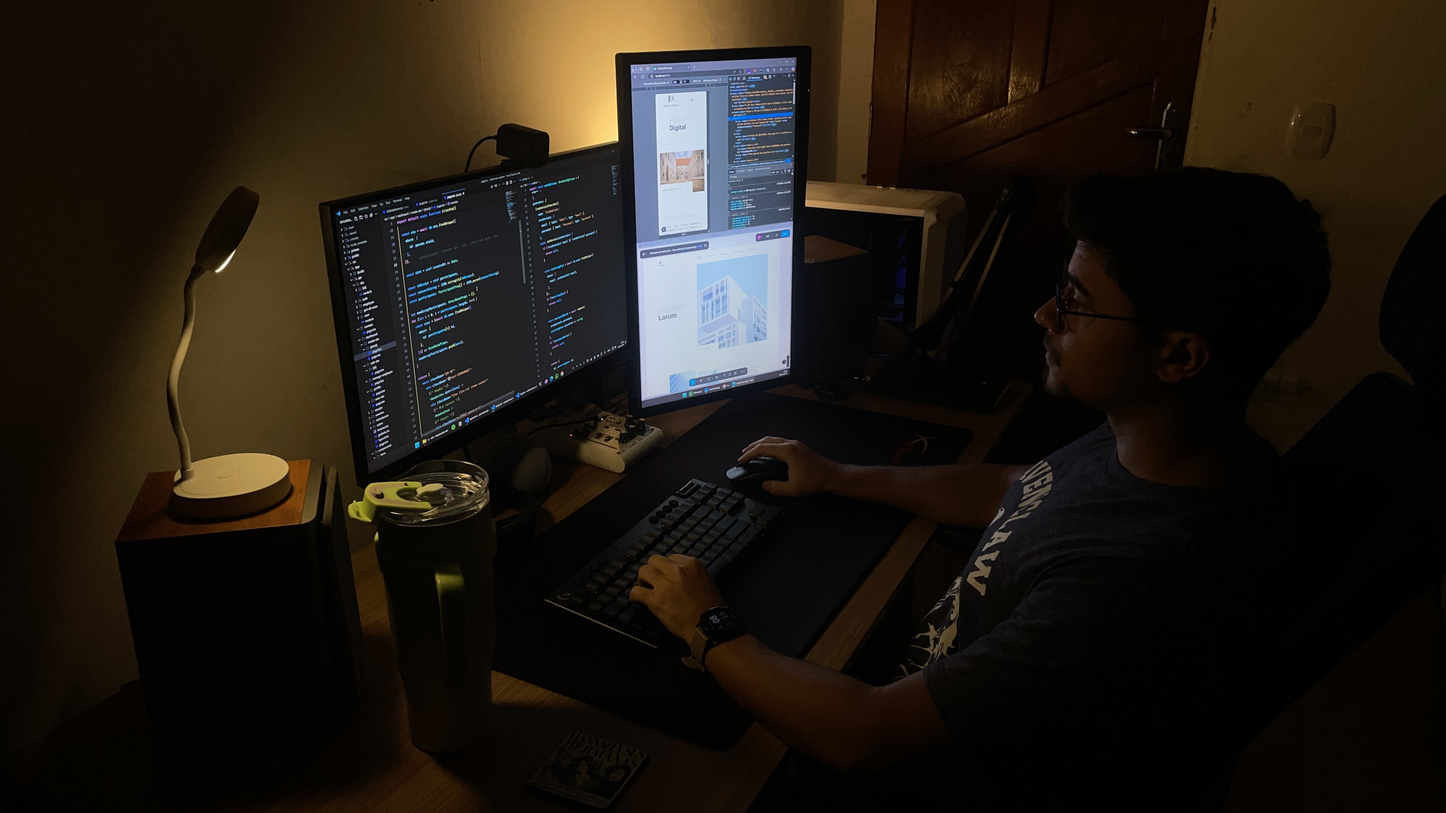
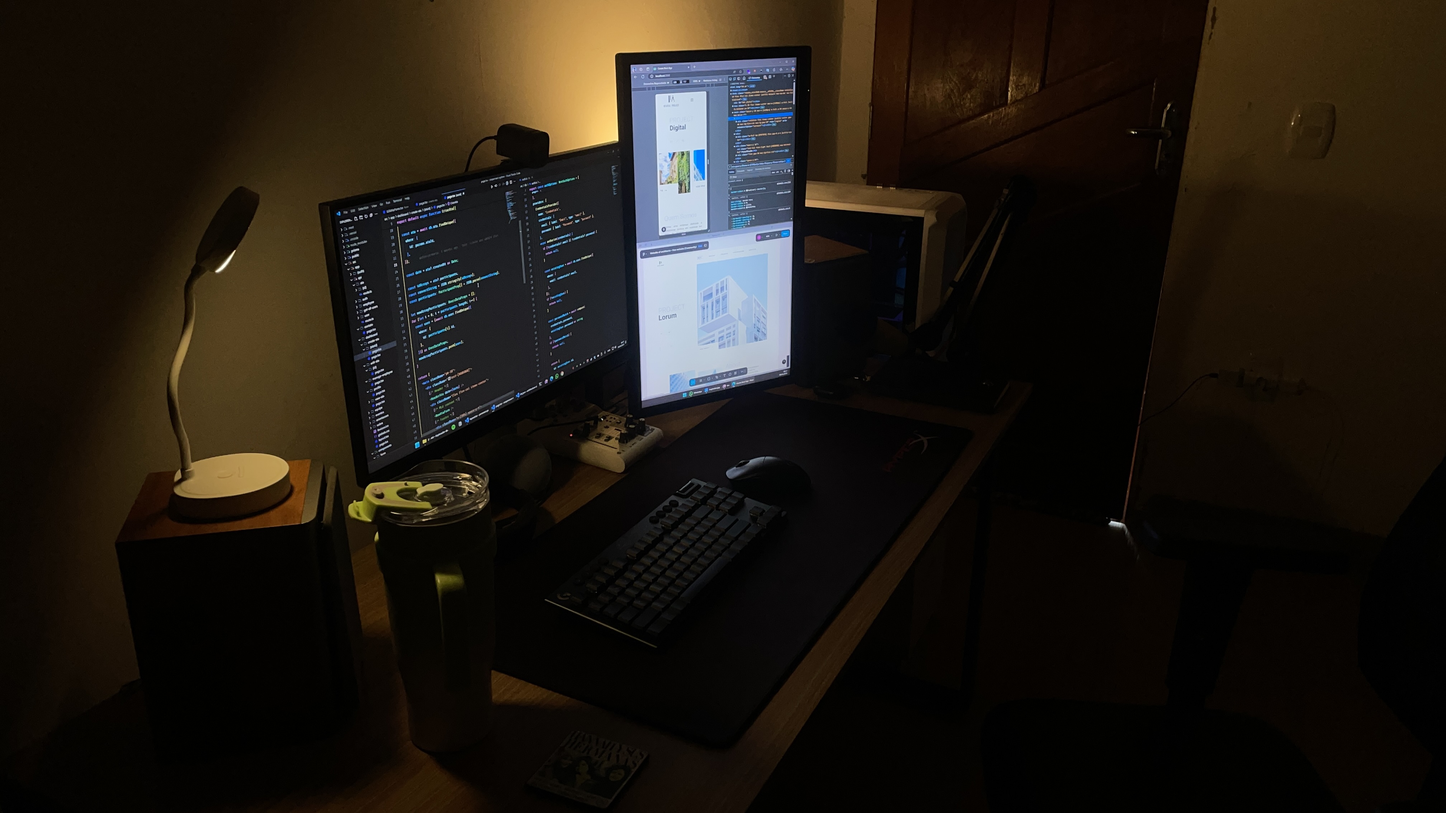
feat: including about page

Changed region(s): [[0.4375, 0.5247, 0.8125, 0.8951], [0.7188, 0.1852, 1.0, 0.4938], [0.4375, 0.1852, 0.5, 0.2469]]

diff --git a/src/app/about/page.tsx b/src/app/about/page.tsx
@@ -1,0 +1,32 @@
+import Container from "@/components/Container";
+
+export default function Page() {
+  return (
+    <Container
+      mainStyle={"bg-[url(../../public/profile.jpg)] bg-cover"}
+      sectionStyle="flex items-center px-40"
+    >
+      <section className="w-fit h-fit flex flex-col justify-center p-20 backdrop-blur-sm border-[1px] rounded-2xl">
+        <h1 className="text-5xl uppercase font-bold border-b-[#f1da8b] border-b-[2px] pb-1 w-fit">
+          Sobre
+        </h1>
+        <p className="text-xl pt-2">antonionascneto@gmail.com</p>
+        <p className="w-[500px] text-xl pt-20 text-justify">
+          Desenvolvedor Web com experiência em desenvolvimento, manutenção e
+          sustentação de sistemas com tecnologias Fullstack, aplicando meu
+          conhecimento técnico e minha habilidade em resolver problemas de forma
+          eficaz. Tenho experiência na área de FrontEnd com a linguagem de
+          programação Javascript/Typescript e tecnologias como React.JS,
+          Next.JS, que me permitem criar interfaces e implementações inovadoras,
+          responsivas e otimizadas. Tenho experiência na área de Backend, com
+          foco em desenvolvimento de APIs escaláveis utilizando Node.js e
+          tecnologias como Express.JS, Postman, PrismaORM, PostgreSQL e MongoDB.
+          Minha abordagem técnica é complementada por boas práticas de
+          programação, habilidades interpessoais, boa comunicação, facilidade
+          para trabalhar em equipe e proatividade, o que me torna apto a
+          identificar e solucionar desafios com eficiência.
+        </p>
+      </section>
+    </Container>
+  );
+}

diff --git a/src/app/page.tsx b/src/app/page.tsx
@@ -1,16 +1,18 @@
-import Header from "@/components/Header";
 import Image from "next/image";
 import Link from "next/link";
 import instagram from "../../public/icons8-instagram-64.png";
 import linkedin from "../../public/icons8-linkedin-50.png";
 import wpp from "../../public/icons8-whatsapp-64.png";
+import Container from "@/components/Container";
 
 export default function Home() {
   return (
-    <main className="h-screen flex flex-col items-center relative">
-      <Header />
+    <Container
+      mainStyle={"bg-[url(../../public/img.jpg)] bg-center bg-cover"}
+      sectionStyle="flex flex-col items-end"
+    >
       {/* Hero section */}
-      <section className="w-full h-full flex flex-col justify-center pb-20 pl-32">
+      <section className="flex flex-col pr-32 my-auto">
         <h1 className="text-9xl uppercase font-light">Antonio</h1>
         <h1 className="text-9xl uppercase font-bold">Nascimento</h1>
         <h2 className="text-4xl tracking-[30px]">Web Developer</h2>
@@ -31,7 +33,7 @@ export default function Home() {
         </div>
       </section>
       {/* Social Media */}
-      <section className="flex w-full justify-start pl-32 pb-10 gap-2 items-center">
+      <section className="flex pr-32 pb-10 gap-2">
         <Link
           href={"https://www.linkedin.com/in/antonio-nascimento-851579237/"}
           target="_blank"
@@ -50,6 +52,6 @@ export default function Home() {
           <Image src={wpp} width={40} height={40} alt="link" />
         </Link>
       </section>
-    </main>
+    </Container>
   );
 }

diff --git a/src/app/layout.tsx b/src/app/layout.tsx
@@ -1,8 +1,6 @@
 import type { Metadata } from "next";
 import { Oswald } from "next/font/google";
 import "./globals.css";
-import Image from "next/image";
-import bg from "../../public/img.jpg";
 
 const oswaldSans = Oswald({
   weight: ["200", "300", "400", "500", "600", "700"],
@@ -22,14 +20,8 @@ export default function RootLayout({
   return (
     <html lang="pt-br">
       <body
-        className={`${oswaldSans.className} antialiased min-h-screen box-border relative`}
+        className={`${oswaldSans.className} antialiased min-h-screen box-border`}
       >
-        <Image
-          src={bg}
-          alt="Foto de uma mesa com um computador em um tom mais escuro e quente."
-          sizes="100vw"
-          className="object-cover absolute h-screen blur-[2px]"
-        />
         {children}
       </body>
     </html>

diff --git a/src/components/Header.tsx b/src/components/Header.tsx
@@ -24,7 +24,7 @@ export default function Header() {
     },
   ];
   return (
-    <nav className="text-[rgb(243,231,219)] w-screen backdrop-filter backdrop-blur-md py-3">
+    <nav className="sticky z-10 text-[rgb(243,231,219)] w-screen backdrop-filter backdrop-blur-md py-3">
       <ul className="flex gap-10 w-full justify-center items-center">
         {navList.map((item, index) => (
           <li key={index}>

diff --git a/src/components/Container.tsx b/src/components/Container.tsx
@@ -1,0 +1,18 @@
+import Header from "./Header";
+
+export default function Container({
+  children,
+  mainStyle,
+  sectionStyle = "",
+}: {
+  children: React.ReactNode;
+  mainStyle?: string;
+  sectionStyle?: string;
+}) {
+  return (
+    <main className={`${mainStyle} h-screen flex flex-col`}>
+      <Header />
+      <div className={`h-full ${sectionStyle}`}>{children}</div>
+    </main>
+  );
+}
